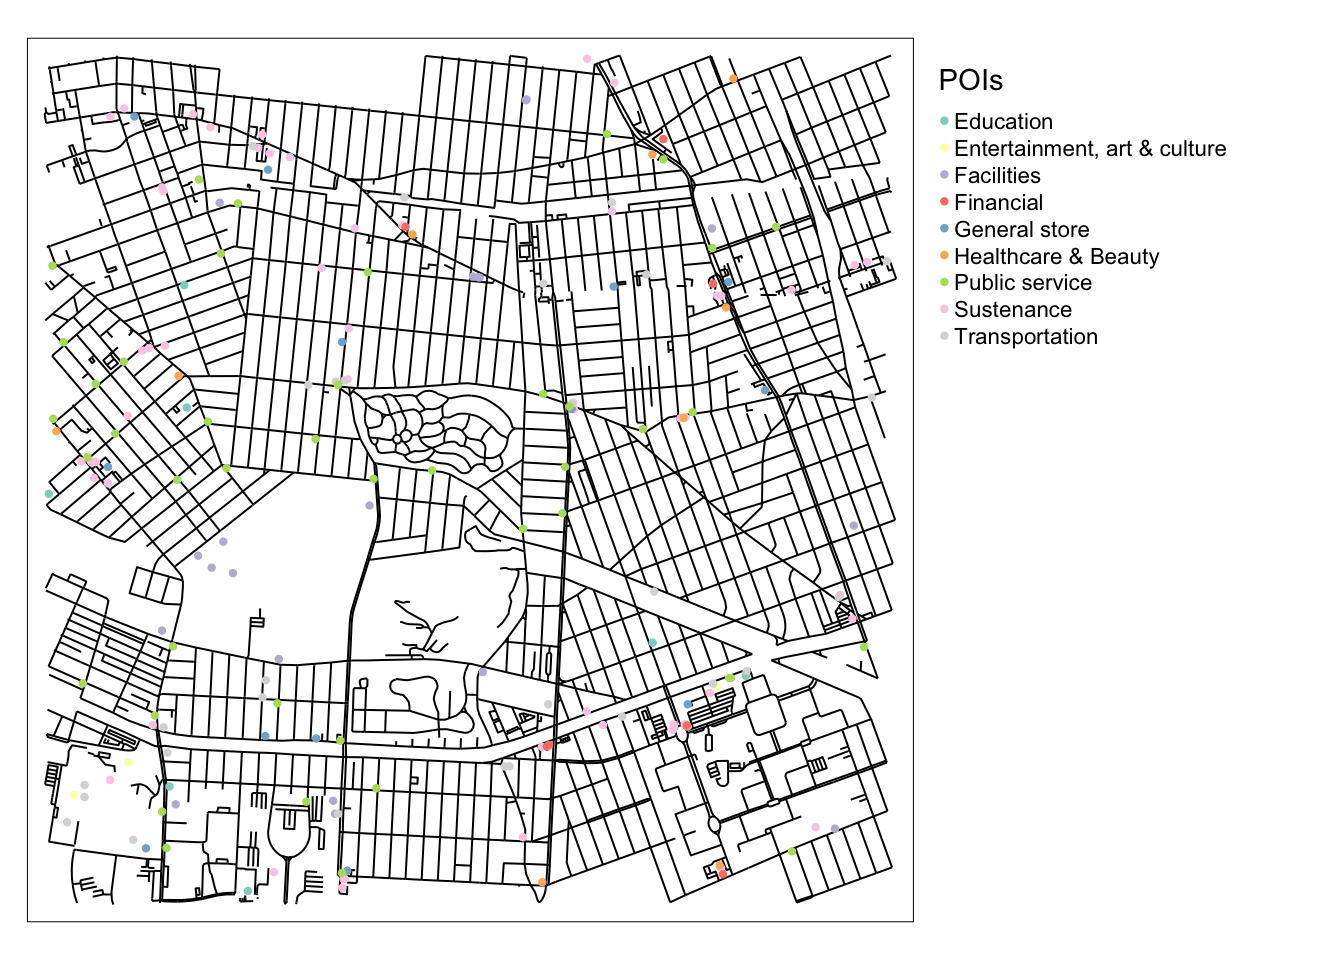
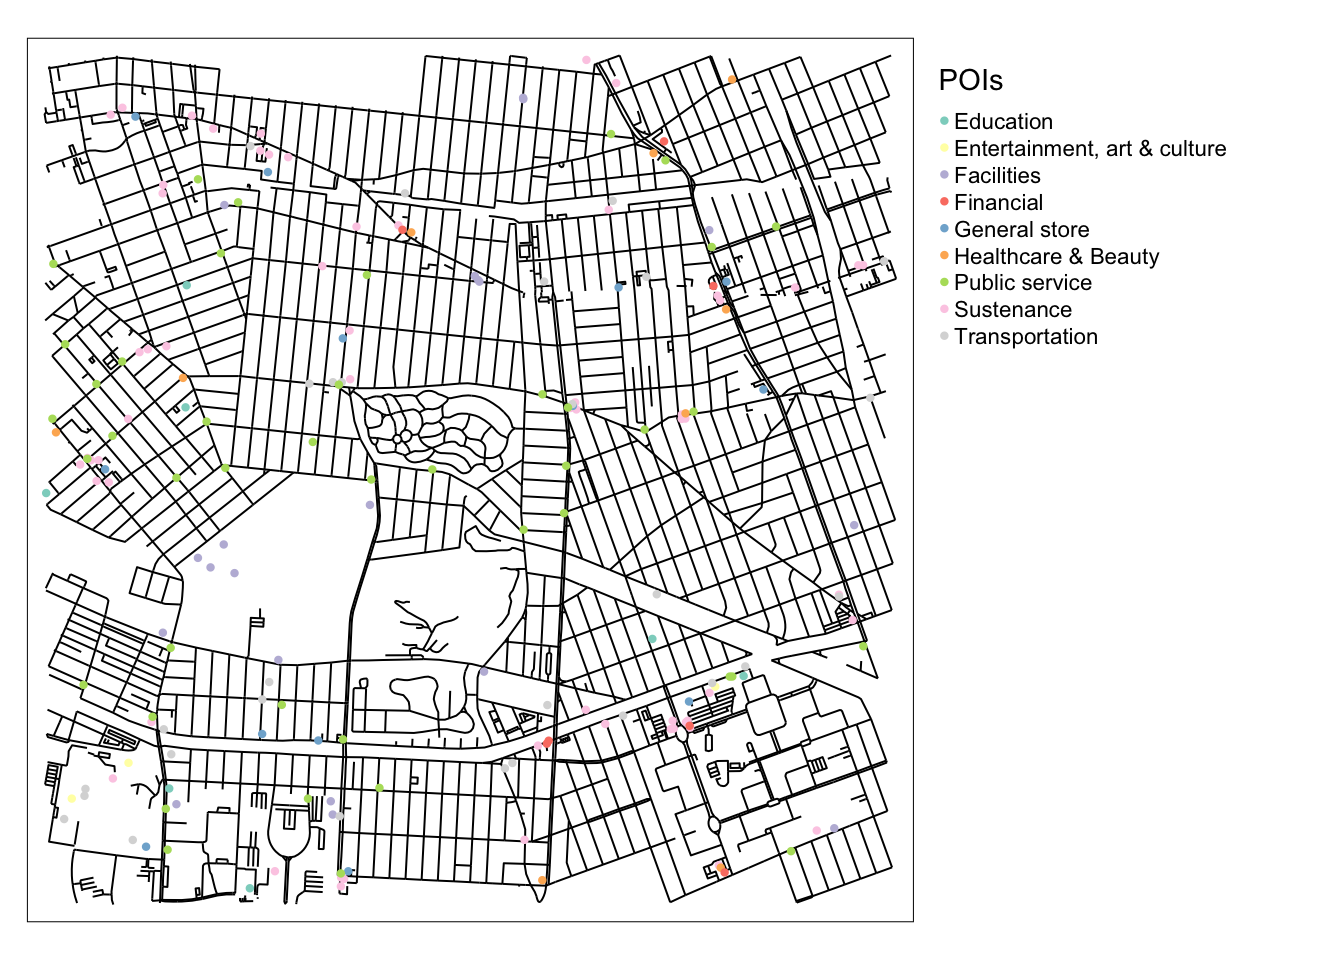
update docs and data

diff --git a/docs/001-construct-street-networks.html b/docs/001-construct-street-networks.html
@@ -287,7 +287,7 @@ $(document).ready(function () {
 
 <h1 class="title toc-ignore">Construct street networks</h1>
 <h4 class="author">Qingqing Chen</h4>
-<h4 class="date">01 May, 2021</h4>
+<h4 class="date">02 May, 2021</h4>
 
 </div>
 
@@ -312,7 +312,7 @@ $(document).ready(function () {
 <div class="tab-content">
 <div id="summary" class="tab-pane fade in active">
 <p>
-<strong>Last updated:</strong> 2021-05-01
+<strong>Last updated:</strong> 2021-05-02
 </p>
 <p>
 <strong>Checks:</strong> <span class="glyphicon glyphicon-ok text-success" aria-hidden="true"></span> 7 <span class="glyphicon glyphicon-exclamation-sign text-danger" aria-hidden="true"></span> 0
@@ -403,16 +403,16 @@ This reproducible <a href="http://rmarkdown.rstudio.com">R Markdown</a> analysis
 <div class="panel panel-default">
 <div class="panel-heading">
 <p class="panel-title">
-<a data-toggle="collapse" data-parent="#workflowr-checks" href="#strongRepositoryversionstrongahrefhttpsgithubcomchenqingqingdraw15minsCitybubblestreece5bc2dec67a13e9fb90ab166104288757d53900targetblankce5bc2da"> <span class="glyphicon glyphicon-ok text-success" aria-hidden="true"></span> <strong>Repository version:</strong> <a href="https://github.com/chenqingqing/draw-15minsCity-bubbles/tree/ce5bc2dec67a13e9fb90ab166104288757d53900" target="_blank">ce5bc2d</a> </a>
+<a data-toggle="collapse" data-parent="#workflowr-checks" href="#strongRepositoryversionstrongahrefhttpsgithubcomchenqingqingdraw15minsCitybubblestree947de3fb2fce2006351408e2d28026da21f36390targetblank947de3fa"> <span class="glyphicon glyphicon-ok text-success" aria-hidden="true"></span> <strong>Repository version:</strong> <a href="https://github.com/chenqingqing/draw-15minsCity-bubbles/tree/947de3fb2fce2006351408e2d28026da21f36390" target="_blank">947de3f</a> </a>
 </p>
 </div>
[2 lines of base64/hex data omitted]
 <div class="panel-body">
 <p>
 Great! You are using Git for version control. Tracking code development and connecting the code version to the results is critical for reproducibility.
 </p>
 <p>
-The results in this page were generated with repository version <a href="https://github.com/chenqingqing/draw-15minsCity-bubbles/tree/ce5bc2dec67a13e9fb90ab166104288757d53900" target="_blank">ce5bc2d</a>. See the <em>Past versions</em> tab to see a history of the changes made to the R Markdown and HTML files.
+The results in this page were generated with repository version <a href="https://github.com/chenqingqing/draw-15minsCity-bubbles/tree/947de3fb2fce2006351408e2d28026da21f36390" target="_blank">947de3f</a>. See the <em>Past versions</em> tab to see a history of the changes made to the R Markdown and HTML files.
 </p>
 <p>
 Note that you need to be careful to ensure that all relevant files for the analysis have been committed to Git prior to generating the results (you can use <code>wflow_publish</code> or <code>wflow_git_commit</code>). workflowr only checks the R Markdown file, but you know if there are other scripts or data files that it depends on. Below is the status of the Git repository when the results were generated:
@@ -423,19 +423,8 @@ Ignored files:
     Ignored:    .Rhistory
     Ignored:    .Rproj.user/
     Ignored:    data/.DS_Store
-
-Untracked files:
-    Untracked:  data/streets_with_POIs/streets_with_POIs_queens2km2.dbf
-    Untracked:  data/streets_with_POIs/streets_with_POIs_queens2km2.prj
-    Untracked:  data/streets_with_POIs/streets_with_POIs_queens2km2.shp
-    Untracked:  data/streets_with_POIs/streets_with_POIs_queens2km2.shx
-
-Unstaged changes:
-    Modified:   analysis/002-extract-POIs.Rmd
-    Modified:   data/POIs/poi_points.dbf
-    Modified:   data/streets_with_POIs/streets_with_POIs_queens2km.dbf
-    Modified:   data/streets_with_POIs/streets_with_POIs_queens2km.shp
-    Modified:   data/streets_with_POIs/streets_with_POIs_queens2km.shx
+    Ignored:    model/.DS_Store
+    Ignored:    model/data/.DS_Store
 
 </code></pre>
 <p>
@@ -474,6 +463,40 @@ Message
 </tr>
 </thead>
 <tbody>
+<tr>
+<td>
+Rmd
+</td>
+<td>
+<a href="https://github.com/chenqingqing/draw-15minsCity-bubbles/blob/eff56c577286164afa7e9e22c8ac5ce77ad9a2f3/analysis/001-construct-street-networks.Rmd" target="_blank">eff56c5</a>
+</td>
+<td>
+chenqingqing
+</td>
+<td>
+2021-05-02
+</td>
+<td>
+change line color
+</td>
+</tr>
+<tr>
+<td>
+html
+</td>
+<td>
+<a href="https://rawcdn.githack.com/chenqingqing/draw-15minsCity-bubbles/a44f3bae776662acf372c5e06ea2e599a6304b8c/docs/001-construct-street-networks.html" target="_blank">a44f3ba</a>
+</td>
+<td>
+chenqingqing
+</td>
+<td>
+2021-05-01
+</td>
+<td>
+update docs
+</td>
+</tr>
 <tr>
 <td>
 Rmd
@@ -573,51 +596,24 @@ sf_queens_2km &lt;- read_sf(here(&quot;data/queens2km_street_networks/edges.shp&
 #   dplyr::select(osmid, name, length)
 
 sf_queens_2km_sub &lt;- sf_queens_2km %&gt;% 
-  filter(highway %in% c(&quot;primary&quot;, &quot;primary_link&quot;, &quot;tertiary&quot;, &quot;tertiary_link&quot;, &quot;secondary&quot;,  &quot;secondary_link&quot;, &quot;residential&quot;, &quot;service&quot;))
-
-tm_shape(sf_queens_2km_sub) + 
-  tm_lines(col = &quot;blue&quot;, lwd = 1.5) +
+  filter(highway %in% c(&quot;primary&quot;, &quot;primary_link&quot;, &quot;tertiary&quot;, &quot;tertiary_link&quot;, &quot;secondary&quot;,  &quot;secondary_link&quot;, &quot;residential&quot;, &quot;service&quot;))</code></pre>
+<div id="original-street-networks" class="section level4">
+<h4>Original street networks</h4>
+<pre class="r"><code>tm_shape(sf_queens_2km) + 
+  tm_lines(col = &quot;black&quot;, lwd = 1.5) +
   tm_layout(frame = F) +
   tm_credits(&quot;Residential street networks of Queens, New York City (2km from geographical center)&quot;, 
               position = c(&quot;left&quot;, &quot;bottom&quot;))</code></pre>
-<p><img src="figure/001-construct-street-networks.Rmd/unnamed-chunk-2-1.png" width="672" style="display: block; margin: auto;" /></p>
-<p>
-<button type="button" class="btn btn-default btn-xs btn-workflowr btn-workflowr-fig" data-toggle="collapse" data-target="#fig-unnamed-chunk-2-1">
-Past versions of unnamed-chunk-2-1.png
-</button>
-</p>
-<div id="fig-unnamed-chunk-2-1" class="collapse">
-<div class="table-responsive">
-<table class="table table-condensed table-hover">
-<thead>
-<tr>
-<th>
-Version
-</th>
-<th>
-Author
-</th>
-<th>
-Date
-</th>
-</tr>
-</thead>
-<tbody>
-<tr>
-<td>
-<a href="https://github.com/chenqingqing/draw-15minsCity-bubbles/blob/50aad4303581f1e5828476fde27e564da3ab7e70/docs/figure/001-construct-street-networks.Rmd/unnamed-chunk-2-1.png" target="_blank">50aad43</a>
-</td>
-<td>
-chenqingqing
-</td>
-<td>
-2021-04-15
-</td>
-</tr>
-</tbody>
-</table>
+<p><img src="figure/001-construct-street-networks.Rmd/unnamed-chunk-3-1.png" width="672" style="display: block; margin: auto;" /></p>
 </div>
-</div>
+<div id="simplified-street-networks" class="section level4">
+<h4>Simplified street networks</h4>
+<pre class="r"><code>tm_shape(sf_queens_2km_sub) + 
+  tm_lines(col = &quot;black&quot;, lwd = 1.5) +
+  tm_layout(frame = F) +
+  tm_credits(&quot;Residential street networks of Queens, New York City (2km from geographical center)&quot;, 
+              position = c(&quot;left&quot;, &quot;bottom&quot;))</code></pre>
+<p><img src="figure/001-construct-street-networks.Rmd/unnamed-chunk-4-1.png" width="672" style="display: block; margin: auto;" /></p>
 <br>
 <p>
 <button type="button" class="btn btn-default btn-workflowr btn-workflowr-sessioninfo" data-toggle="collapse" data-target="#workflowr-sessioninfo" style="display: block;">
@@ -668,6 +664,7 @@ loaded via a namespace (and not attached):
 [77] gtable_0.3.0       assertthat_0.2.1   xfun_0.21          lwgeom_0.2-5      
 [81] broom_0.7.5        e1071_1.7-4        later_1.1.0.1      class_7.3-18      
 [85] viridisLite_0.3.0  workflowr_1.6.2    units_0.6-7        ellipsis_0.3.1    </code></pre>
+</div>
 </div>
 </div>
 

diff --git a/docs/002-extract-POIs.html b/docs/002-extract-POIs.html
@@ -287,7 +287,7 @@ $(document).ready(function () {
 
 <h1 class="title toc-ignore">Extract POIs</h1>
 <h4 class="author">Qingqing Chen</h4>
-<h4 class="date">01 May, 2021</h4>
+<h4 class="date">02 May, 2021</h4>
 
 </div>
 
@@ -312,7 +312,7 @@ $(document).ready(function () {
 <div class="tab-content">
 <div id="summary" class="tab-pane fade in active">
 <p>
-<strong>Last updated:</strong> 2021-05-01
+<strong>Last updated:</strong> 2021-05-02
 </p>
 <p>
 <strong>Checks:</strong> <span class="glyphicon glyphicon-ok text-success" aria-hidden="true"></span> 7 <span class="glyphicon glyphicon-exclamation-sign text-danger" aria-hidden="true"></span> 0
@@ -403,16 +403,16 @@ This reproducible <a href="http://rmarkdown.rstudio.com">R Markdown</a> analysis
 <div class="panel panel-default">
 <div class="panel-heading">
 <p class="panel-title">
-<a data-toggle="collapse" data-parent="#workflowr-checks" href="#strongRepositoryversionstrongahrefhttpsgithubcomchenqingqingdraw15minsCitybubblestree69fa59da57b413547cd503494a14386384aa661btargetblank69fa59da"> <span class="glyphicon glyphicon-ok text-success" aria-hidden="true"></span> <strong>Repository version:</strong> <a href="https://github.com/chenqingqing/draw-15minsCity-bubbles/tree/69fa59da57b413547cd503494a14386384aa661b" target="_blank">69fa59d</a> </a>
+<a data-toggle="collapse" data-parent="#workflowr-checks" href="#strongRepositoryversionstrongahrefhttpsgithubcomchenqingqingdraw15minsCitybubblestree947de3fb2fce2006351408e2d28026da21f36390targetblank947de3fa"> <span class="glyphicon glyphicon-ok text-success" aria-hidden="true"></span> <strong>Repository version:</strong> <a href="https://github.com/chenqingqing/draw-15minsCity-bubbles/tree/947de3fb2fce2006351408e2d28026da21f36390" target="_blank">947de3f</a> </a>
 </p>
 </div>
[2 lines of base64/hex data omitted]
 <div class="panel-body">
 <p>
 Great! You are using Git for version control. Tracking code development and connecting the code version to the results is critical for reproducibility.
 </p>
 <p>
-The results in this page were generated with repository version <a href="https://github.com/chenqingqing/draw-15minsCity-bubbles/tree/69fa59da57b413547cd503494a14386384aa661b" target="_blank">69fa59d</a>. See the <em>Past versions</em> tab to see a history of the changes made to the R Markdown and HTML files.
+The results in this page were generated with repository version <a href="https://github.com/chenqingqing/draw-15minsCity-bubbles/tree/947de3fb2fce2006351408e2d28026da21f36390" target="_blank">947de3f</a>. See the <em>Past versions</em> tab to see a history of the changes made to the R Markdown and HTML files.
 </p>
 <p>
 Note that you need to be careful to ensure that all relevant files for the analysis have been committed to Git prior to generating the results (you can use <code>wflow_publish</code> or <code>wflow_git_commit</code>). workflowr only checks the R Markdown file, but you know if there are other scripts or data files that it depends on. Below is the status of the Git repository when the results were generated:
@@ -425,13 +425,6 @@ Ignored files:
     Ignored:    data/.DS_Store
     Ignored:    model/.DS_Store
     Ignored:    model/data/.DS_Store
-
-Untracked files:
-    Untracked:  analysis/figure/
-
-Unstaged changes:
-    Modified:   data/POIs/poi_points.dbf
-    Modified:   data/streets_with_POIs/streets_with_POIs_queens2km.dbf
 
 </code></pre>
 <p>
@@ -470,6 +463,40 @@ Message
 </tr>
 </thead>
 <tbody>
+<tr>
+<td>
+Rmd
+</td>
+<td>
+<a href="https://github.com/chenqingqing/draw-15minsCity-bubbles/blob/322b72a1bf537929c8967b14966c75e2889a445c/analysis/002-extract-POIs.Rmd" target="_blank">322b72a</a>
+</td>
+<td>
+chenqingqing
+</td>
+<td>
+2021-05-02
+</td>
+<td>
+add jitter effect
+</td>
+</tr>
+<tr>
+<td>
+html
+</td>
+<td>
+<a href="https://rawcdn.githack.com/chenqingqing/draw-15minsCity-bubbles/a44f3bae776662acf372c5e06ea2e599a6304b8c/docs/002-extract-POIs.html" target="_blank">a44f3ba</a>
+</td>
+<td>
+chenqingqing
+</td>
+<td>
+2021-05-01
+</td>
+<td>
+update docs
+</td>
+</tr>
 <tr>
 <td>
 Rmd
@@ -1638,7 +1665,7 @@ full_pois %&gt;%
 tm_shape(sf_queens_2km_sub) + 
   tm_lines() + 
   tm_shape(full_pois) + 
-  tm_dots(col = &quot;POIs&quot;, size = 0.05) + 
+  tm_dots(col = &quot;POIs&quot;, size = 0.05, jitter = 0.05) + 
   tm_layout(legend.outside = T)</code></pre>
 <p><img src="figure/002-extract-POIs.Rmd/unnamed-chunk-12-1.png" width="672" style="display: block; margin: auto;" /></p>
 <p>
@@ -1663,6 +1690,17 @@ Date
 </tr>
 </thead>
 <tbody>
+<tr>
+<td>
+<a href="https://github.com/chenqingqing/draw-15minsCity-bubbles/blob/a44f3bae776662acf372c5e06ea2e599a6304b8c/docs/figure/002-extract-POIs.Rmd/unnamed-chunk-12-1.png" target="_blank">a44f3ba</a>
+</td>
+<td>
+chenqingqing
+</td>
+<td>
+2021-05-01
+</td>
+</tr>
 <tr>
 <td>
 <a href="https://github.com/chenqingqing/draw-15minsCity-bubbles/blob/50aad4303581f1e5828476fde27e564da3ab7e70/docs/figure/002-extract-POIs.Rmd/unnamed-chunk-12-1.png" target="_blank">50aad43</a>
@@ -1717,6 +1755,17 @@ Date
 </tr>
 </thead>
 <tbody>
+<tr>
+<td>
+<a href="https://github.com/chenqingqing/draw-15minsCity-bubbles/blob/a44f3bae776662acf372c5e06ea2e599a6304b8c/docs/figure/002-extract-POIs.Rmd/unnamed-chunk-13-1.png" target="_blank">a44f3ba</a>
+</td>
+<td>
+chenqingqing
+</td>
+<td>
+2021-05-01
+</td>
+</tr>
 <tr>
 <td>
 <a href="https://github.com/chenqingqing/draw-15minsCity-bubbles/blob/50aad4303581f1e5828476fde27e564da3ab7e70/docs/figure/002-extract-POIs.Rmd/unnamed-chunk-13-1.png" target="_blank">50aad43</a>
@@ -1804,6 +1853,43 @@ t2 &lt;- tm_shape(streets_with_POIs_queens2km) +
 
 tmap_arrange(t1, t2, ncol = 1)</code></pre>
 <p><img src="figure/002-extract-POIs.Rmd/unnamed-chunk-15-1.png" width="672" style="display: block; margin: auto;" /></p>
+<p>
+<button type="button" class="btn btn-default btn-xs btn-workflowr btn-workflowr-fig" data-toggle="collapse" data-target="#fig-unnamed-chunk-15-1">
+Past versions of unnamed-chunk-15-1.png
+</button>
+</p>
+<div id="fig-unnamed-chunk-15-1" class="collapse">
+<div class="table-responsive">
+<table class="table table-condensed table-hover">
+<thead>
+<tr>
+<th>
+Version
+</th>
+<th>
+Author
+</th>
+<th>
+Date
+</th>
+</tr>
+</thead>
+<tbody>
+<tr>
+<td>
+<a href="https://github.com/chenqingqing/draw-15minsCity-bubbles/blob/a44f3bae776662acf372c5e06ea2e599a6304b8c/docs/figure/002-extract-POIs.Rmd/unnamed-chunk-15-1.png" target="_blank">a44f3ba</a>
+</td>
+<td>
+chenqingqing
+</td>
+<td>
+2021-05-01
+</td>
+</tr>
+</tbody>
+</table>
+</div>
+</div>
 <br>
 <p>
 <button type="button" class="btn btn-default btn-workflowr btn-workflowr-sessioninfo" data-toggle="collapse" data-target="#workflowr-sessioninfo" style="display: block;">
